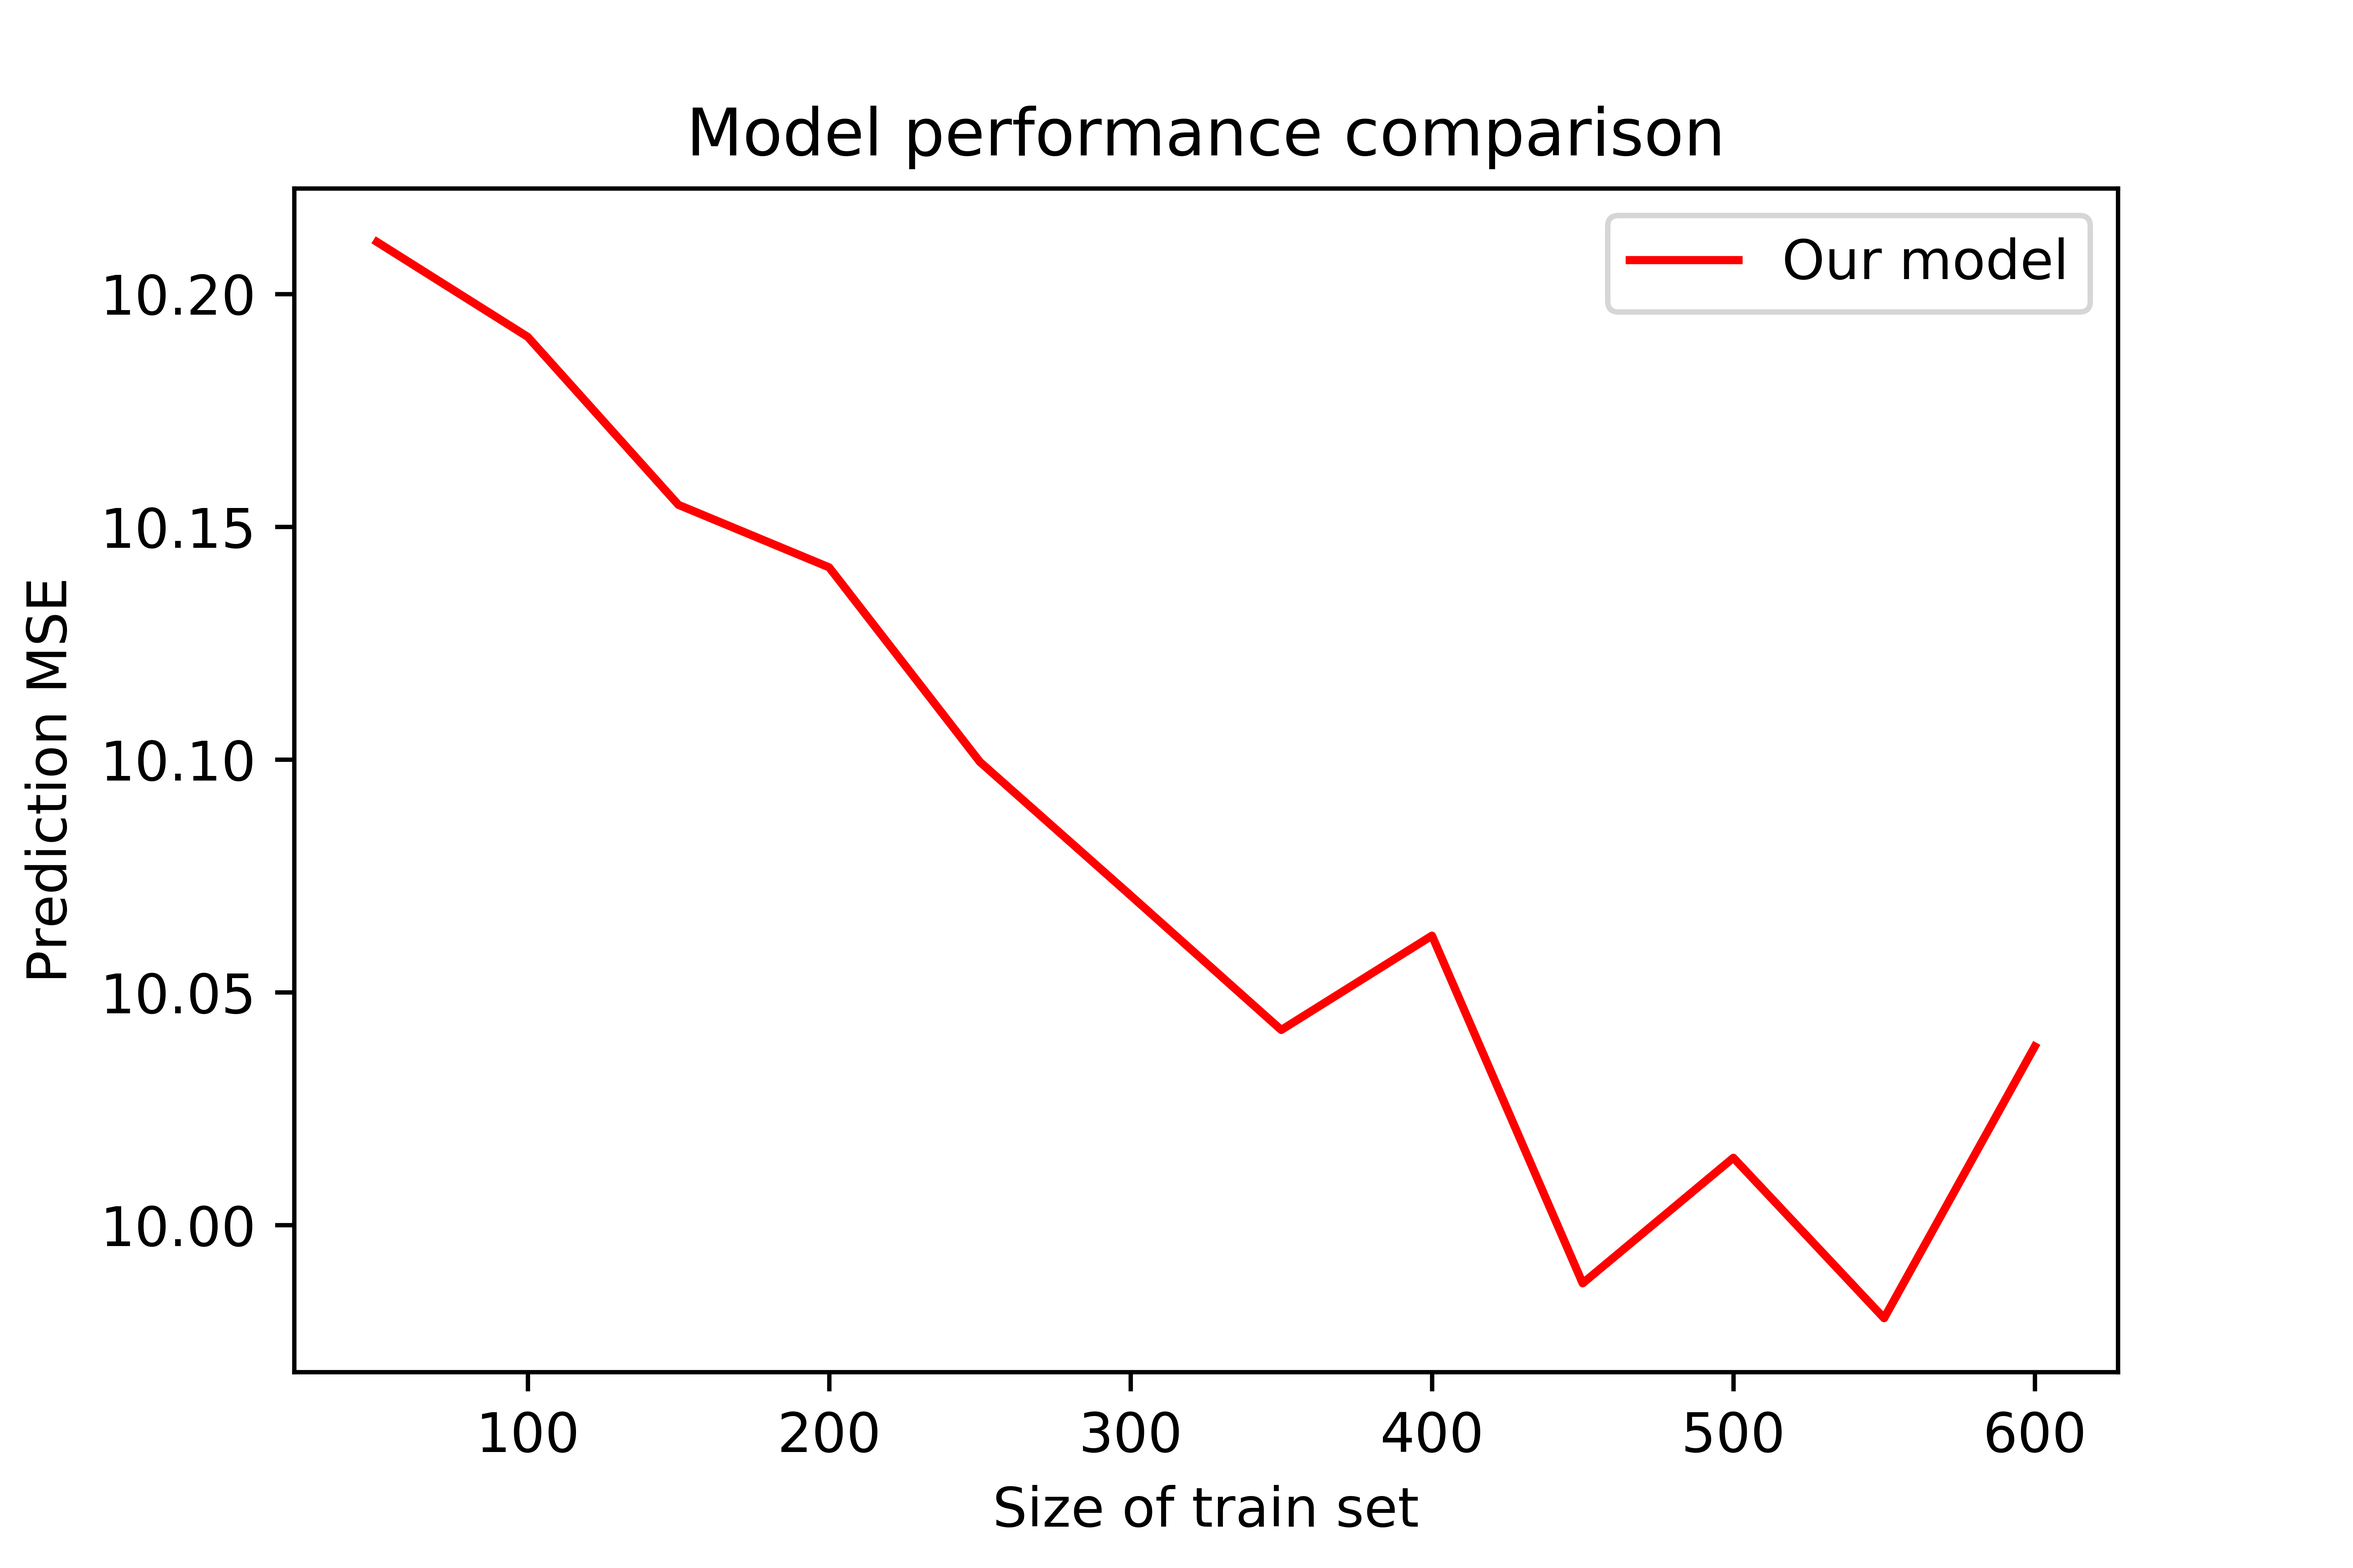
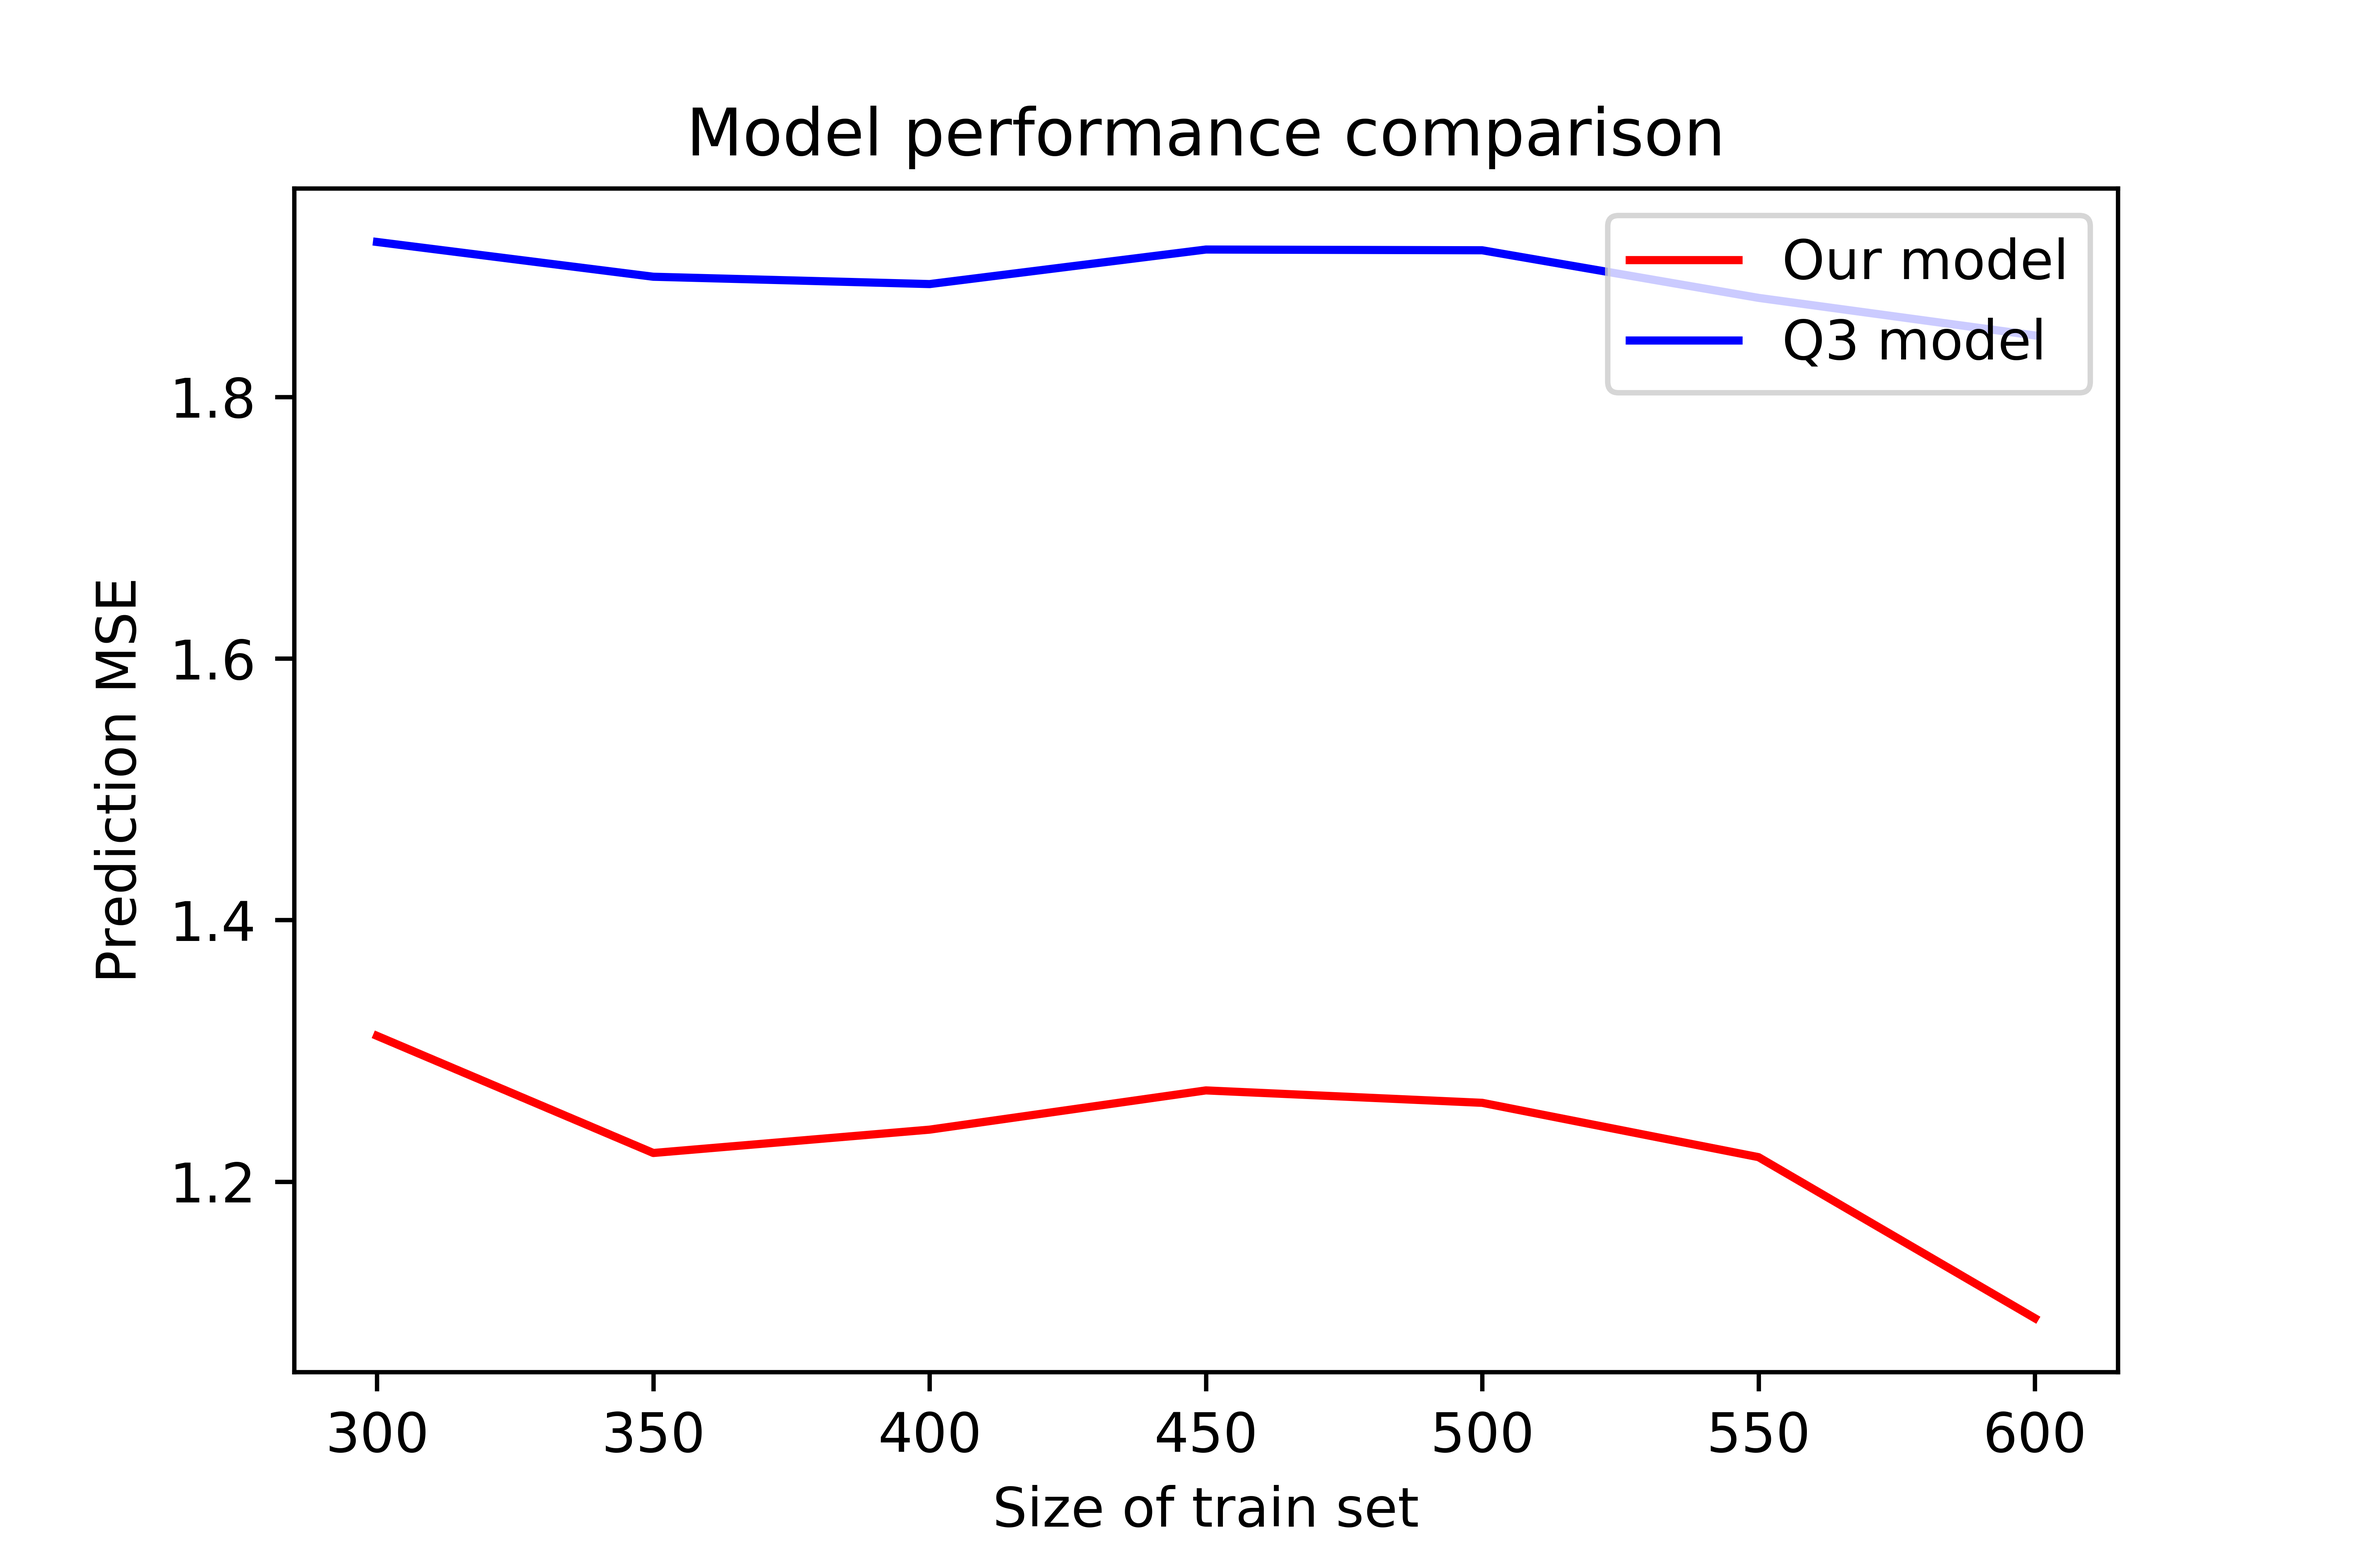
the completed version

diff --git a/hw2/gradient_optimizing.py b/hw2/gradient_optimizing.py
@@ -2,11 +2,14 @@
 # -*- coding: utf-8 -*-
 """
 Created on Tue Oct 30 00:41:16 2018
-
-@author: Tianyang Yang, Wenqi Wang
+COMS W4771 Machine Learning
+HW 2, Problem 5
+Tianyang Yang (ty2388), Wenqi Wang (ww2505)
 """
 
 import numpy as np
+import matplotlib.pyplot as plt
+import os
 
 
 def subset(full,prop=0.1):
@@ -19,6 +22,14 @@ def f(theta,sample):
     compute the LSE loss based on theta and smaple
     return a real number
     """
+    m = sample.shape[0]
+    pred = np.matmul(sample[:,1:],theta)
+    pred = pred.T
+    respond = sample[:,0]
+    res = respond-pred
+    return np.sum(res.T*res)/m
+
+def f2(theta,sample,lamb):
     m = sample.shape[0]
     pred = np.matmul(sample[:,1:],theta)
     pred = pred.T
@@ -47,7 +58,7 @@ def grad(f,theta,sample):
     return grad
 
 
-def gd(f,theta,full,alpha=0.1,K=1e4):
+def gd(f,theta,full,alpha=0.001,K=1e4):
     """
     @f: a loss function on theta (in R^d) to R
     @theta: a d-dimension nd-array, the initial value
@@ -66,7 +77,7 @@ def gd(f,theta,full,alpha=0.1,K=1e4):
     return {'tend':res,'opt':theta}
 
 
-def sgd(f,theta,full,alpha=0.1,K=1e4):
+def sgd(f,theta,full,alpha=0.001,K=1e4):
     """
     @f: a loss function on theta (in R^d) to R, only take a random subset 
     @theta: a d-dimension nd-array, the initial value
@@ -86,7 +97,7 @@ def sgd(f,theta,full,alpha=0.1,K=1e4):
 
 
 
-def sgdm(f,theta,full,alpha=0.1,K=1e4,eta=0.9):
+def sgdm(f,theta,full,alpha=0.001,K=1e4,eta=0.5):
     """
     @f: a loss function on theta (in R^d) to R, only take a random subset 
     @theta: a d-dimension nd-array, the initial value
@@ -109,7 +120,7 @@ def sgdm(f,theta,full,alpha=0.1,K=1e4,eta=0.9):
     
     
     
-def adagrad(f,theta,full,alpha=0.1,K=1e4):
+def adagrad(f,theta,full,alpha=0.5,K=1e4):
     """
     @f: a loss function on theta (in R^d) to R, only take a random subset 
     @theta: a d-dimension nd-array, the initial value
@@ -215,27 +226,28 @@ def loss(optimizer,trueTheta):
     dist = []
     for theta in optimizer['tend']:
         dist.append(np.linalg.norm(theta-trueTheta))
-    return dist
+    return [optimizer['opt'], dist]
         
 
 if __name__ == '__main__':
     d = 10
     N = 1000
-    X1 = np.concatenate((np.ones((N,1)),np.random.randn(N,d-1)),1)
+    X1 = 10*np.concatenate((np.ones((N,1)),np.random.randn(N,d-1)),1)
     theta1 = np.random.poisson(1,d)
     Y1 = np.matmul(X1,theta1)+np.random.randn(N)
     Y1 = np.matrix(Y1).T
     full1 = np.concatenate((Y1,X1),1)
-    init1 = np.zeros(d)
-    X2 = np.concatenate((np.ones((N,1)),np.random.randn(N,d-5),np.random.normal(0,100,(N,4))),1)
+    X2 = np.concatenate((np.ones((N,1)),np.random.randn(N,d-5),np.random.normal(0,10,(N,4))),1)
     theta2 = np.concatenate((np.random.poisson(2,d-5),np.random.poisson(1000,5)))
     theta2 = np.random.permutation(theta2)
     Y2 = np.matmul(X2,theta2)+np.random.randn(N)
     Y2 = np.matrix(Y2).T
     full2 = np.concatenate((Y2,X2),1)
-    init2 = np.zeros(d)
     hat1 =np.matmul(np.linalg.inv(np.matmul(X1.T,X1)),np.matmul(X1.T,Y1))
     hat2 =np.matmul(np.linalg.inv(np.matmul(X2.T,X2)),np.matmul(X2.T,Y2))
+    init1 = np.random.rand(d)
+    init2 = np.random.rand(d)
+    # table1['sgd'][1] is a list of squre error
     table1 = {
             'gd':loss(gd(f,init1,full1),theta1),
             'sgd':loss(sgd(f,init1,full1),theta1),
@@ -246,13 +258,13 @@ if __name__ == '__main__':
             'adam':loss(adam(f,init1,full1),theta1)
             }
     table2 = {
-            'gd':loss(gd(f,init2,full2),theta2),
-            'sgd':loss(sgd(f,init2,full2),theta2),
-            'sgdm':loss(sgdm(f,init2,full2),theta2),
-            'adagrad':loss(adagrad(f,init2,full2),theta2),
-            'rmsprop':loss(rmsprop(f,init2,full2),theta2),
+            'gd':loss(gd(f,init2,full2,alpha=0.001),theta2),
+            'sgd':loss(sgd(f,init2,full2,alpha=0.001),theta2),
+            'sgdm':loss(sgdm(f,init2,full2,alpha=0.005),theta2),
+            'adagrad':loss(adagrad(f,init2,full2,alpha=1),theta2),
+            'rmsprop':loss(rmsprop(f,init2,full2,alpha=1),theta2),
             'adadelta':loss(adadelta(f,init2,full2),theta2),
-            'adam':loss(adam(f,init2,full2),theta2)
+            'adam':loss(adam(f,init2,full2,alpha=1),theta2)
             }
     table1hat = {
             'gd':loss(gd(f,init1,full1),hat1),
@@ -264,13 +276,47 @@ if __name__ == '__main__':
             'adam':loss(adam(f,init1,full1),hat1)
             }
     table2hat = {
-            'gd':loss(gd(f,init2,full2),hat2),
-            'sgd':loss(sgd(f,init2,full2),hat2),
-            'sgdm':loss(sgdm(f,init2,full2),hat2),
-            'adagrad':loss(adagrad(f,init2,full2),hat2),
-            'rmsprop':loss(rmsprop(f,init2,full2),hat2),
+            'gd':loss(gd(f,init2,full2,alpha=0.001),hat2),
+            'sgd':loss(sgd(f,init2,full2,alpha=0.001),hat2),
+            'sgdm':loss(sgdm(f,init2,full2,alpha=0.005),hat2),
+            'adagrad':loss(adagrad(f,init2,full2,alpha=1),hat2),
+            'rmsprop':loss(rmsprop(f,init2,full2,alpha=1),hat2),
             'adadelta':loss(adadelta(f,init2,full2),hat2),
-            'adam':loss(adam(f,init2,full2),hat2)
+            'adam':loss(adam(f,init2,full2,alpha=1),hat2)
             }
     
+    # plot performance comparison graphs
+    xlist = np.arange(1, 15)
+    cwd = os.path.dirname(os.path.abspath(__file__))
+    os.chdir(cwd)
+    for key in table1:
+        plt.plot(xlist, table1[key][1], label=key)
+    plt.title('Gradient algorithm performance on dataset 1')
+    plt.xlabel('log(#iteration)')
+    plt.ylabel('Sum of squared error')
+    plt.legend(loc='upper right')
+    plt.savefig('1-1.png', dpi=1024)
     
+    for key in table2:
+        plt.plot(xlist, table2[key][1], label=key)
+    plt.title('Gradient algorithm performance on dataset 2')
+    plt.xlabel('log(#iteration)')
+    plt.ylabel('Sum of squared error')
+    plt.legend(loc='lower left')
+    plt.savefig('1-2.png', dpi=1024)  
+    
+    for key in table1:
+        plt.plot(xlist, np.log2(table1[key][1]), label=key)
+    plt.title('Gradient algorithm performance on dataset 1')
+    plt.xlabel('log(#iteration)')
+    plt.ylabel('Log Sum of squared error')
+    plt.legend(loc='upper right')
+    plt.savefig('1-11.png', dpi=1024)
+    
+    for key in table2:
+        plt.plot(xlist, np.log2(table2[key][1]), label=key)
+    plt.title('Gradient algorithm performance on dataset 2')
+    plt.xlabel('log(#iteration)')
+    plt.ylabel('Log Sum of squared error')
+    plt.legend(loc='lower left')
+    plt.savefig('1-22.png', dpi=1024)

diff --git a/hw2/hw2-5.py b/hw2/hw2-5.py
@@ -10,6 +10,7 @@ import pandas as pd
 import numpy as np
 from sklearn.metrics import mean_squared_error
 import matplotlib.pyplot as plt
+import os
 
 # split data into test and train sets
 #def split(matrix, test_size):
@@ -32,25 +33,62 @@ def split(matrix, test_size):
         test[user, test_movie] = matrix[user, test_movie]
     return train, test
 
+
+        
+def q3_pred(train,k=20,K=10,alpha=0.01):
+    n,d = train.shape
+    u = np.random.normal(0,0.1,(n,k))
+    v = np.random.normal(0,0.1,(d,k))
+    for h in range(int(K)):
+        for i in range(n):
+            for j in range(d):
+                er = train[i,j]-u[i].dot(v[j].T)
+                u[i] = u[i]+alpha*er*v[j]
+                v[j] = v[j]+alpha*er*v[j]
+        print("u: "+str(u[0:3]))
+        print("v: "+str(v[0:3]))
+    return u.dot(v.T)
+    
+
+
 # predict using user-based collaborative filtering model    
 def filter_predict(train):
-    dot = train.dot(train.transpose()) + 1e-12
-    norm = np.array([np.sqrt(np.diagonal(dot))])
-    user_sim = dot/norm/norm.transpose()
-    mean_ratings = train.mean(axis=1)
-    diff = train - mean_ratings[:, np.newaxis]
-    pred = mean_ratings[:, np.newaxis] + user_sim.dot(diff) / np.array([np.abs(user_sim).sum(axis=1)]).transpose()
+    length = np.sqrt(np.sum(np.square(train),axis = 1))
+    unit_train = (train)/(length[:,None]+1e-8)
+    sim = unit_train.dot(unit_train.transpose())
+    P = train.copy()
+    P[P!=0] = 1
+    pred = (sim.dot(train)+1e-8)/(np.abs(sim).dot(P)+1e-8)
     return pred
 
-def f():
-    pass
-
-def grad():
-    pass
-
 # predict using model in Q3
-def predict(train):
-    pass    
+def predict(train,k=30,K=40,alpha=0.0001):
+    n,d = train.shape
+    u = np.random.random_sample((n,k))
+    v = np.random.random_sample((d,k))
+    def ugrad():
+        udelta = np.zeros((n,k))
+        for i in range(n):
+            ri = train[i,][train[i,]!=0]
+            vi = v[train[i,]!=0]
+            predi = u[i].dot(vi.T)-ri
+            udelta[i] =  np.sum(predi[:,None]*vi,0)
+        return udelta
+    def vgrad():
+        vdelta = np.zeros((d,k))
+        for j in range(d):
+            rj = train.T[j,][train.T[j,]!=0]
+            uj = u[train.T[j,]!=0]
+            predj = v[j].dot(uj.T)-rj
+            vdelta[j] = np.sum(predj[:,None]*uj,0)
+        return vdelta
+    for i in range(int(K)):
+        u = u - alpha*ugrad()
+        v = v - 0.01*alpha*vgrad()
+    pred = u.dot(v.T)
+    pred[pred>5] = 5
+    pred[pred<0] = 0
+    return pred   
     
 # compute mean squared error between prediction and test
 def compute_mse(pred, test):
@@ -66,31 +104,33 @@ def compare(matrix):
 #        min_nonzero = min(cur, min_nonzero)
     train_size_list = []
     mse1_list, mse2_list = [], []
-    for train_size in range(50, 650, 50):
+    for train_size in range(300, 650, 50):
         train_size_list.append(train_size)
         test_size = matrix.shape[0] - train_size
         print("train size: {}, test size: {}".format(train_size, test_size))
         mse1, mse2 = 0, 0
-        rep = 50
+        rep = 10
         for i in range(rep):
+            print(" rep {}".format(i))
             train, test = split(matrix, test_size)
             pred1 = filter_predict(train)
-            #pred2 = predict(train)
+            pred2 = predict(train)
             mse1 += compute_mse(pred1, test)
-            #mse2 += compute_mse(pred2, test)
+            mse2 += compute_mse(pred2, test)
         mse1 = mse1 / rep
         mse1_list.append(mse1)
-        #mse2 = mse2 / rep
-        #mse2_list.append(mse2)
+        mse2 = mse2 / rep
+        mse2_list.append(mse2)
         print("  filtering prediction mse: {}".format(mse1))
-        #print("  Q3 prediction mse: {}".format(mse2))
-    return train_size_list, mse1_list
+        print("  Q3 prediction mse: {}".format(mse2))
+    return train_size_list, mse1_list, mse2_list
   
 # main
 if __name__ == '__main__':
     
     # read in data
-    path = '/Users/wenqi/Desktop/ML/ML4771/hw2/movie_ratings.csv'
+    cwd = os.path.dirname(os.path.abspath(__file__))
+    path = cwd+'/movie_ratings.csv'
     ratings = pd.read_csv(path, sep=',')
     
     # construct data matrix
@@ -102,8 +142,9 @@ if __name__ == '__main__':
         matrix[entry[1]-1, np.where(movie_dict==entry[2])[0][0]] = entry[3]
 
     # compare performance
-    xlist, ylist = compare(matrix)
-    plt.plot(xlist, ylist, 'r', label='Our model')
+    xlist, ylist1, ylist2 = compare(matrix)
+    plt.plot(xlist, ylist1, 'r', label='Our model')
+    plt.plot(xlist, ylist2, 'b', label='Q3 model')
     plt.title('Model performance comparison')
     plt.xlabel('Size of train set')
     plt.ylabel('Prediction MSE')
